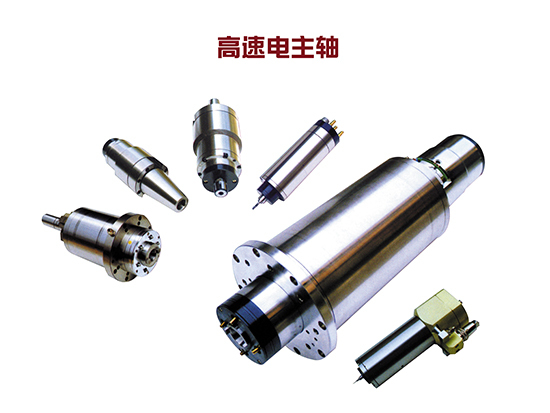
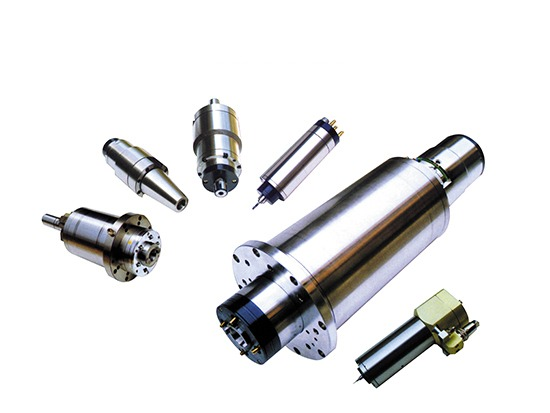
chore(bearings): 去除图片/页面中的上游厂商名称与中文标注（干净图，无品牌）

diff --git a/bearings.html b/bearings.html
@@ -3,13 +3,13 @@
 <head>
 <meta charset="utf-8">
 <meta name="viewport" content="width=device-width, initial-scale=1">
-<title>Precision Bearings &amp; Bearing Components — ZYS Technology | Agent China</title>
+<title>Precision Bearings &amp; Bearing Components | Agent China</title>
 <meta name="description" content="High-precision bearings: ultra-high-speed angular contact ball bearings, ceramic and full-ceramic bearings, high-temperature and space bearings, hydrodynamic thrust bearings, electric spindles and special lubricants. 24 product lines — request a quote.">
-<meta name="keywords" content="precision bearings, angular contact ball bearing, ceramic bearing, full ceramic bearing, high temperature bearing, space bearing, tapered roller bearing, cylindrical roller bearing, thrust bearing, electric spindle, bearing grease, ZYS bearings, China bearing supplier">
+<meta name="keywords" content="precision bearings, angular contact ball bearing, ceramic bearing, full ceramic bearing, high temperature bearing, space bearing, tapered roller bearing, cylindrical roller bearing, thrust bearing, electric spindle, bearing grease, highprecision bearings, China bearing supplier">
 <link rel="canonical" href="https://www.agentchina.uk/bearings.html">
 <meta name="robots" content="index,follow,max-image-preview:large">
 <meta property="og:type" content="website">
-<meta property="og:title" content="Precision Bearings &amp; Bearing Components — ZYS Technology">
+<meta property="og:title" content="Precision Bearings &amp; Bearing Components">
 <meta property="og:description" content="24 lines of high-precision bearings, ceramic bearings, special bearings, hydrodynamic bearings, spindles and lubricants. Request a quote.">
 <meta property="og:url" content="https://www.agentchina.uk/bearings.html">
 <meta property="og:image" content="https://www.agentchina.uk/img/bearings/ultra-high-speed-angular-contact.jpg">
@@ -44,6 +44,9 @@
   .card:hover{transform:translateY(-2px);box-shadow:0 7px 0 rgba(0,0,0,.06);}
   .ph{background:#faf3ea;display:flex;align-items:center;justify-content:center;height:190px;padding:10px;}
   .ph img{max-width:100%;max-height:170px;object-fit:contain;}
+  .ph .noph{display:flex;flex-direction:column;align-items:center;gap:6px;color:var(--soft);}
+  .ph .noph span{font-size:34px;}
+  .ph .noph i{font-size:12px;font-style:normal;font-weight:700;}
   .bd{padding:14px 16px 16px;display:flex;flex-direction:column;gap:8px;flex:1;}
   .bd h3{font-size:16px;line-height:1.35;}
   .bd p{font-size:13.5px;color:var(--soft);}
@@ -74,7 +77,7 @@
 </header>
 
 <div class="hero">
-  <span class="kicker">ZYS · Luoyang Bearing Research Institute</span>
+  <span class="kicker">Precision bearings · Export ready</span>
   <h1>High-precision <em>Bearings</em> &amp; Bearing Components</h1>
   <p>24 product lines of precision bearings, special bearings, ceramic bearings, hydrodynamic thrust bearings, electric spindles and specialty lubricants — supplied for overseas industrial customers, with export documentation and EUD support where required.</p>
   <div class="badges">
@@ -188,7 +191,7 @@
         <div class="ph"><img src="img/bearings/ceramic-balls.jpg" alt="Ceramic Balls" loading="lazy"></div>
         <div class="bd">
           <h3>Ceramic Balls</h3>
-          <p>Ceramic balls and ceramic structural parts with controlled batch consistency; ZYS participated in revising GB/T 308.2-2010 “Rolling bearing balls — Part 2: Ceramic balls” and GJB 5332-2004.</p>
+          <p>Ceramic balls and ceramic structural parts with controlled batch consistency, produced to GB/T 308.2-2010 (“Rolling bearing balls — Part 2: Ceramic balls”) and GJB 5332-2004.</p>
           <ul class="f"><li>Ceramic ball preparation, machining, inspection and batch consistency</li></ul>
           <a class="q" href="#quote" data-p="Ceramic Balls">Request a quote →</a>
         </div>
@@ -212,7 +215,7 @@
         </div>
       </article>
       <article class="card">
-        <div class="ph"><img src="img/bearings/anti-rust-oil.jpg" alt="Anti-rust Oil" loading="lazy"></div>
+        <div class="ph"><div class="noph"><span>📄</span><i>Photo on request</i></div></div>
         <div class="bd">
           <h3>Anti-rust Oil</h3>
           <p>A range of anti-rust oils, greases and metalworking fluids developed over many years, blended to customer requirements.</p>
@@ -352,7 +355,7 @@
 </section>
 
 <footer>
-  Product information and images: <b>ZYS — Luoyang Bearing Research Institute Co., Ltd.</b> (Sinomach group), a leading Chinese manufacturer of high-end bearings.
+  Product information and images are provided for reference only; specifications, packaging and markings may change without notice.
   Export, documentation and after-sales support by <a href="/">Agent China</a>.
   <br>Contact: <a href="/#">inquiry form</a> · © 2026 Agent China
 </footer>
